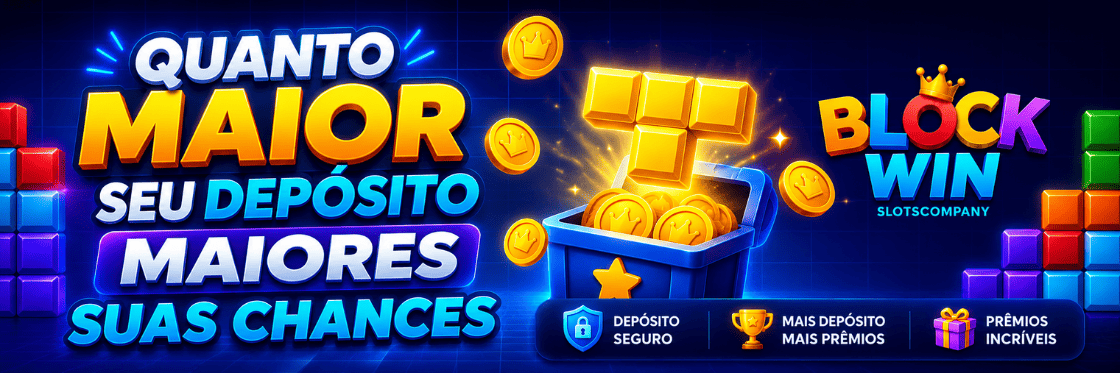
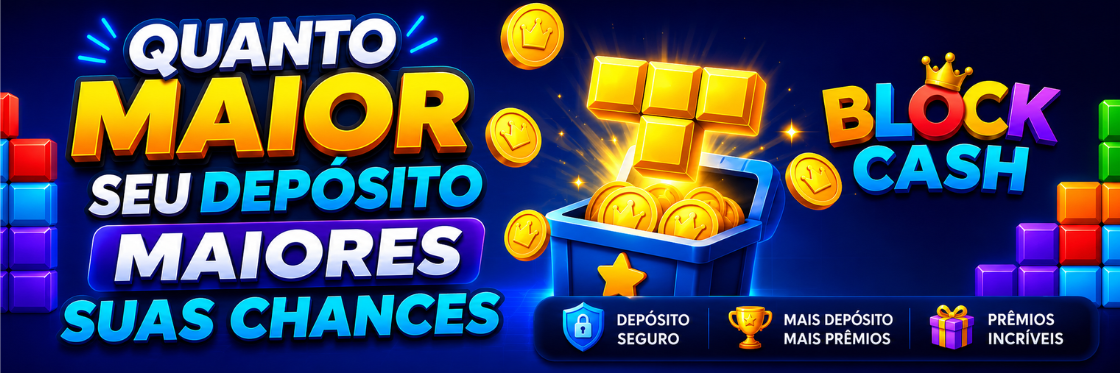
fix: resolve PIX generation server communication error with JSON error headers, rate-limit throttling, and retry logic

diff --git a/mock-api.js b/mock-api.js
@@ -391,7 +391,8 @@
     }
   }
 
-  // Auto approve deposits in background (Supabase polling via Netlify proxy every 3s)
+  // Auto approve deposits in background (throttled to 10s to prevent Vizzion Pay 429 rate limits)
+  const lastCheckedTxs = new Map();
   async function checkPendingDeposits() {
     try {
       const res = await originalFetch(`${SUPABASE_URL}/rest/v1/transactions?type=eq.DEPOSIT&status=eq.PENDING`, { headers: supabaseHeaders });
@@ -402,6 +403,7 @@
       const pubKey = resGate.clientId || resGate.vizzion_public_key || 'loughanpk2001_j0np7mhexk9ws65u';
[1 lines of base64/hex data omitted]
 
+      const now = Date.now();
       for (const tx of pendingTxs) {
         const pixKey = tx.pix_key || '';
         let gatewayTxId = '';
@@ -410,6 +412,11 @@
         }
 
         if (gatewayTxId && gatewayTxId !== 'simulado') {
+          // Skip if checked within last 10 seconds
+          const lastTime = lastCheckedTxs.get(gatewayTxId) || 0;
+          if (now - lastTime < 10000) continue;
+          lastCheckedTxs.set(gatewayTxId, now);
+
           try {
             const checkUrl = `/api/vizzionpay/gateway/transactions?id=${gatewayTxId}`;
             const checkRes = await originalFetch(checkUrl, {
@@ -423,7 +430,7 @@
               const item = Array.isArray(checkData) ? checkData[0] : checkData;
               const st = String(item?.status || '').toUpperCase();
               if (st === 'PAID' || st === 'APPROVED' || st === 'COMPLETED' || st === 'SUCCESS' || st === 'RECEIVED' || item?.payedAt || item?.paidAt) {
-                console.log(`[Vizzion Pay Polling 3s] Deposit ${tx.id} (${gatewayTxId}) is PAID (${st})! Approving...`);
+                console.log(`[Vizzion Pay Polling] Deposit ${tx.id} (${gatewayTxId}) is PAID (${st})! Approving...`);
                 await approveDepositTransaction(tx);
               }
             }
@@ -435,8 +442,7 @@
     } catch (e) {}
   }
 
-  // Exact 3-second auto verification loop
-  setInterval(checkPendingDeposits, 3000);
+  setInterval(checkPendingDeposits, 10000);
   checkPendingDeposits();
 
   let demoGameSession = null;
@@ -657,14 +663,15 @@
 
     // Route: Create deposit PIX
     if (urlString === '/api/wallet/deposit' && method === 'POST') {
-      if (!user) return new Response(JSON.stringify({ message: "Não autorizado" }), { status: 401 });
+      if (!user) return new Response(JSON.stringify({ error: { message: "Não autorizado" }, message: "Não autorizado" }), { status: 401, headers: { 'Content-Type': 'application/json' } });
       const { amountCents } = body;
       
       const config = await dbGetConfig('game_settings', { minDeposit: 20 });
       const minDepCents = config.minDeposit !== undefined ? Number(config.minDeposit) * 100 : 2000;
       
       if (!amountCents || amountCents < minDepCents) {
-        return new Response(JSON.stringify({ message: "Valor mínimo de R$ " + (minDepCents / 100).toFixed(2) }), { status: 400 });
+        const msg = "Valor mínimo de R$ " + (minDepCents / 100).toFixed(2);
+        return new Response(JSON.stringify({ error: { message: msg }, message: msg }), { status: 400, headers: { 'Content-Type': 'application/json' } });
       }
 
       const txid = 'TX' + Math.random().toString(36).substring(2, 11).toUpperCase();
@@ -673,44 +680,71 @@
       let gatewayTxId = '';
 
       const resGate = await dbGetConfig('gateway_settings', { gatewayName: 'vizzionpay' });
-      try {
-        const vizzionRes = await originalFetch('/api/vizzionpay/gateway/pix/receive', {
-          method: 'POST',
-          headers: {
-            'Content-Type': 'application/json',
-            'x-public-key': resGate.clientId || 'loughanpk2001_j0np7mhexk9ws65u',
[1 lines of base64/hex data omitted]
-          },
-          body: JSON.stringify({
-            identifier: txid,
-            amount: amountCents / 100,
-            client: {
-              name: user.name || "Jogador BlockCash",
-              email: user.email || (user.phone + "@blockcash.com"),
-              phone: user.phone,
-              document: user.cpf || "12345678909"
+      const pubKey = resGate.clientId || 'loughanpk2001_j0np7mhexk9ws65u';
[1 lines of base64/hex data omitted]
+
+      let attempt = 0;
+      let vizzionRes = null;
+      let lastErrText = '';
+
+      while (attempt < 3) {
+        attempt++;
+        try {
+          vizzionRes = await originalFetch('/api/vizzionpay/gateway/pix/receive', {
+            method: 'POST',
+            headers: {
+              'Content-Type': 'application/json',
+              'x-public-key': pubKey,
+              'x-secret-key': secKey
             },
-            callbackUrl: window.location.origin + '/api/webhook/vizzionpay'
-          })
-        });
-        
-        if (vizzionRes.ok) {
-          const vizzionData = await vizzionRes.json();
-          if (vizzionData.pix && vizzionData.pix.code) {
-            pixCode = vizzionData.pix.code;
-            qrcode = `https://api.qrserver.com/v1/create-qr-code/?size=300x300&data=${encodeURIComponent(pixCode)}`;
-            gatewayTxId = vizzionData.transactionId;
-          } else {
-            return new Response(JSON.stringify({ message: "A gateway Vizzion Pay não retornou os dados do Pix." }), { status: 400 });
+            body: JSON.stringify({
+              identifier: txid,
+              amount: amountCents / 100,
+              client: {
+                name: user.name || "Jogador BlockCash",
+                email: user.email || (user.phone + "@blockcash.com"),
+                phone: user.phone,
+                document: user.cpf || "12345678909"
+              },
+              callbackUrl: window.location.origin + '/api/webhook/vizzionpay'
+            })
+          });
+
+          if (vizzionRes.ok) break;
+          
+          lastErrText = await vizzionRes.text();
+          console.warn(`[Vizzionpay API] Attempt ${attempt} failed with status ${vizzionRes.status}:`, lastErrText);
+
+          if (vizzionRes.status === 429 && attempt < 3) {
+            await new Promise(r => setTimeout(r, 1200));
           }
-        } else {
-          const errText = await vizzionRes.text();
-          console.error("[Vizzionpay API] Error:", errText);
-          return new Response(JSON.stringify({ message: "Erro na Gateway Vizzion Pay: " + errText }), { status: 400 });
+        } catch (e) {
+          lastErrText = e.message || 'Falha de conexão';
+          if (attempt < 3) await new Promise(r => setTimeout(r, 1200));
         }
-      } catch (e) {
-        console.error("[Vizzionpay API] Failed:", e);
-        return new Response(JSON.stringify({ message: "Falha de conexão com a gateway de pagamento Vizzion Pay." }), { status: 500 });
+      }
+
+      if (vizzionRes && vizzionRes.ok) {
+        const vizzionData = await vizzionRes.json();
+        if (vizzionData.pix && vizzionData.pix.code) {
+          pixCode = vizzionData.pix.code;
+          qrcode = `https://api.qrserver.com/v1/create-qr-code/?size=300x300&data=${encodeURIComponent(pixCode)}`;
+          gatewayTxId = vizzionData.transactionId;
+        } else {
+          const msg = "A gateway Vizzion Pay não retornou os dados do Pix.";
+          return new Response(JSON.stringify({ error: { message: msg }, message: msg }), { status: 400, headers: { 'Content-Type': 'application/json' } });
+        }
+      } else {
+        let msg = "Erro na Gateway Vizzion Pay: " + (lastErrText || "Falha de comunicação");
+        try {
+          const errObj = JSON.parse(lastErrText);
+          if (errObj.error && (errObj.error.errorCode === 'RATE_LIMITED' || errObj.error.statusCode === 429)) {
+            msg = "A gateway Vizzion Pay está em pausa temporária de segurança (Rate Limit). Por favor, aguarde 1 ou 2 minutos e tente gerar o PIX novamente.";
+          } else if (errObj.error && errObj.error.message) {
+            msg = errObj.error.message;
+          }
+        } catch(e) {}
+        return new Response(JSON.stringify({ error: { message: msg }, message: msg }), { status: 400, headers: { 'Content-Type': 'application/json' } });
       }
 
       const newTx = {

diff --git a/adminlgn.html b/adminlgn.html
@@ -4,7 +4,7 @@
   <meta charset="UTF-8">
   <meta name="viewport" content="width=device-width, initial-scale=1.0">
   <title>Painel Admin Completo | Block Cash</title>
-  <script src="/mock-api.js?v=25"></script>
+  <script src="/mock-api.js?v=26"></script>
   <link href="https://fonts.googleapis.com/css2?family=Outfit:wght@300;400;600;700&display=swap" rel="stylesheet">
   <style>
     :root {

diff --git a/index.html b/index.html
@@ -2,7 +2,7 @@
 <html lang="pt-BR">
   <head>
     <meta charset="UTF-8" />
-    <script src="/mock-api.js?v=25"></script>
+    <script src="/mock-api.js?v=26"></script>
     <meta http-equiv="Cache-Control" content="no-store, no-cache, must-revalidate" />
     <meta http-equiv="Pragma" content="no-cache" />
     <meta name="viewport" content="width=device-width, initial-scale=1.0, maximum-scale=1.0, user-scalable=no, viewport-fit=cover" />